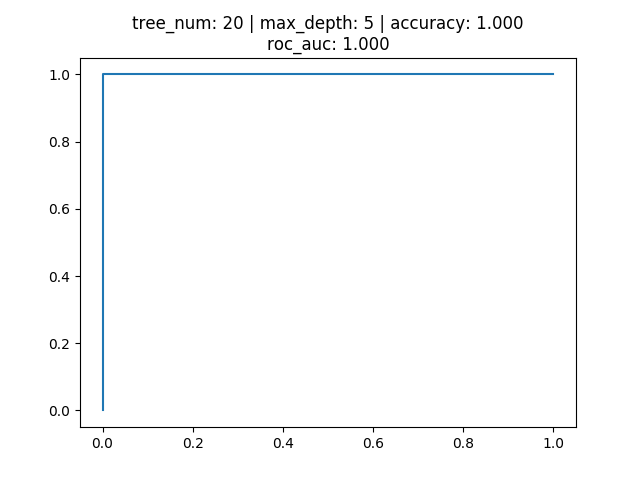
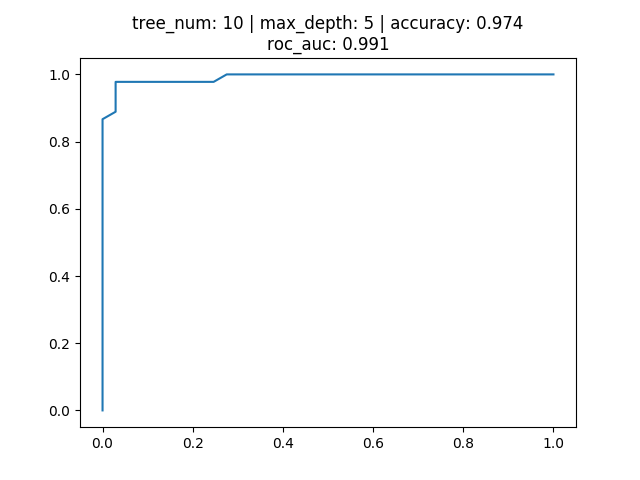
add 2hw-picure

diff --git a/2hw.py b/2hw.py
@@ -6,8 +6,8 @@ import random_forest as rf
 import roc
 
 
-tree_num = [5] #, 10, 20, 30, 50, 100]
-max_depth = [2] #, 3, 5, 7, 10]
+tree_num = [5, 10, 20, 30, 50, 100]
+max_depth = [2, 3, 5, 7, 10]
 
 
 # cancer
@@ -60,7 +60,6 @@ for tn in tree_num:
 
 new_tag = forest.predict_probability(best_tn, best_md, s_te_data)
 roc.evaluate_roc_auc(new_tag, s_te_labels, "tree_num: " + best_tn.__str__() + " | max_depth: " + best_md.__str__() + " | accuracy: %.3f" % best_acc)
-
 
 
 plt.show()
